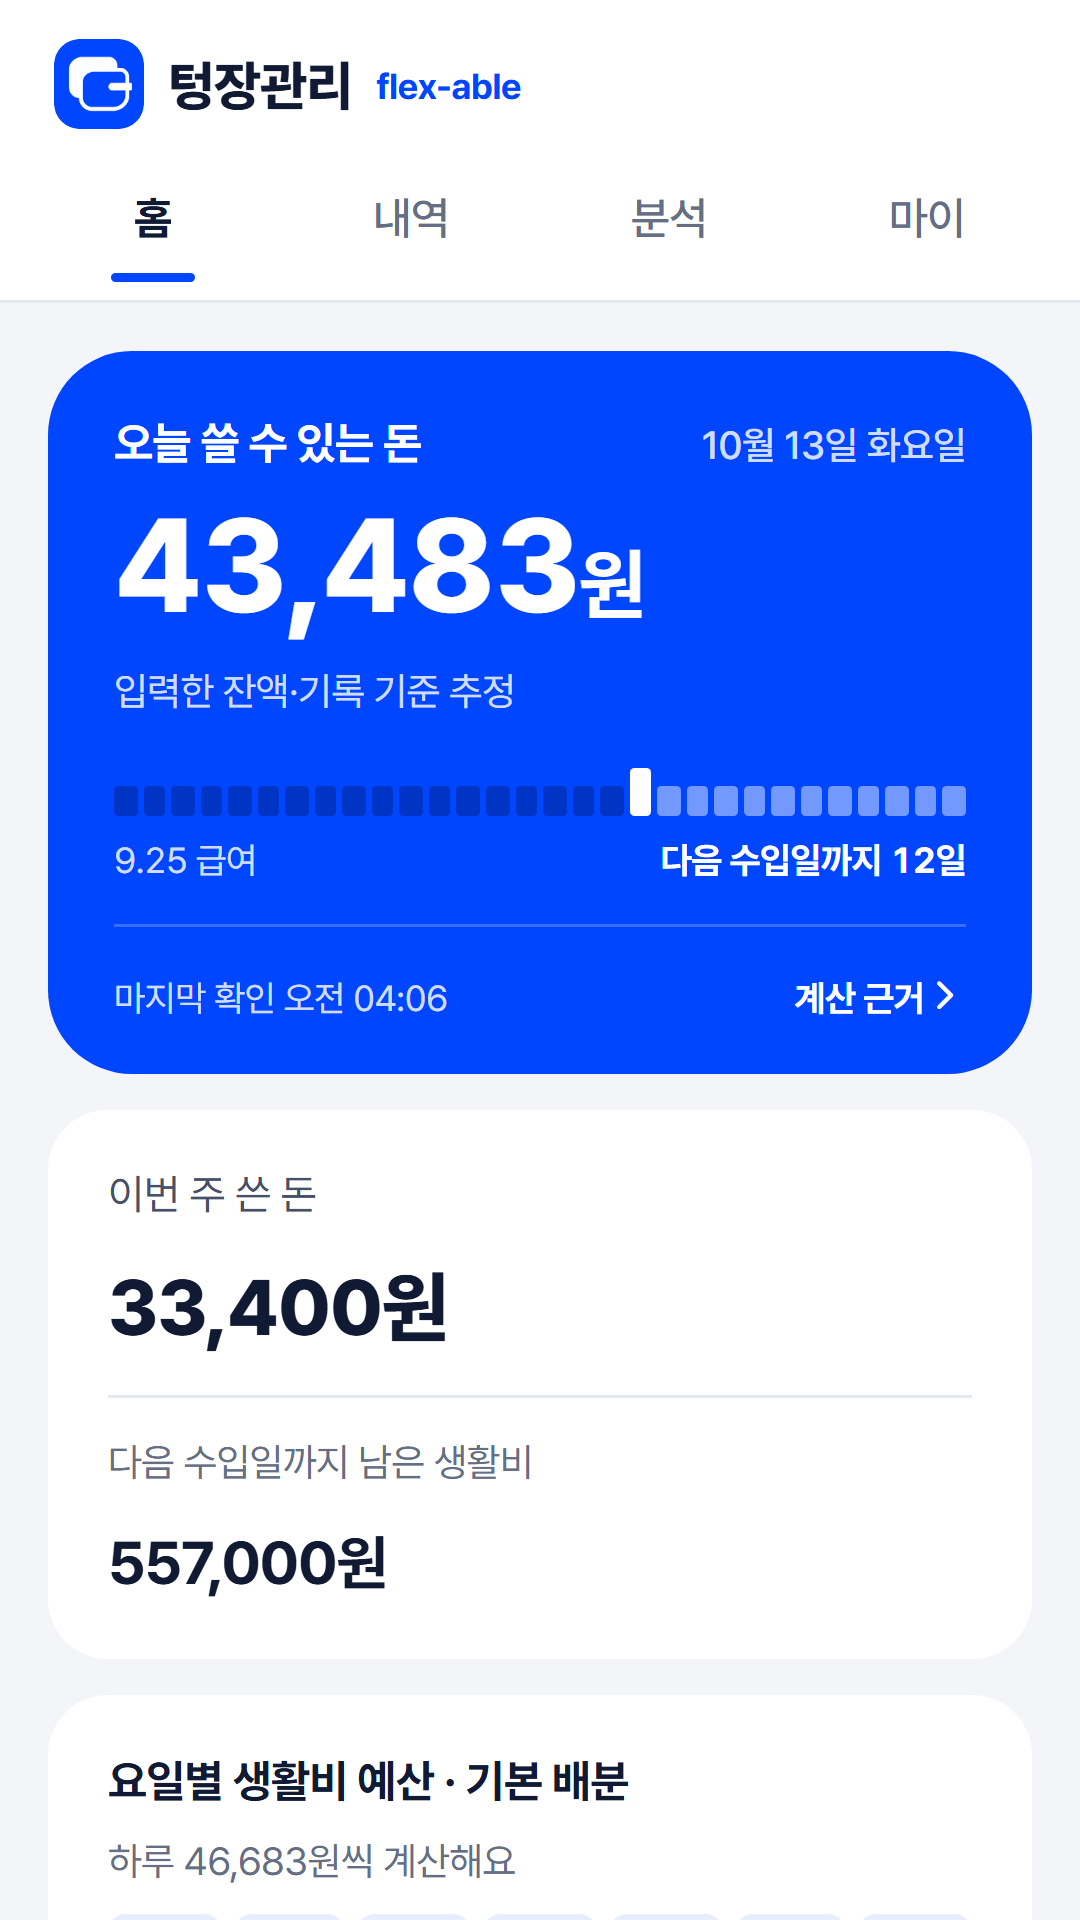
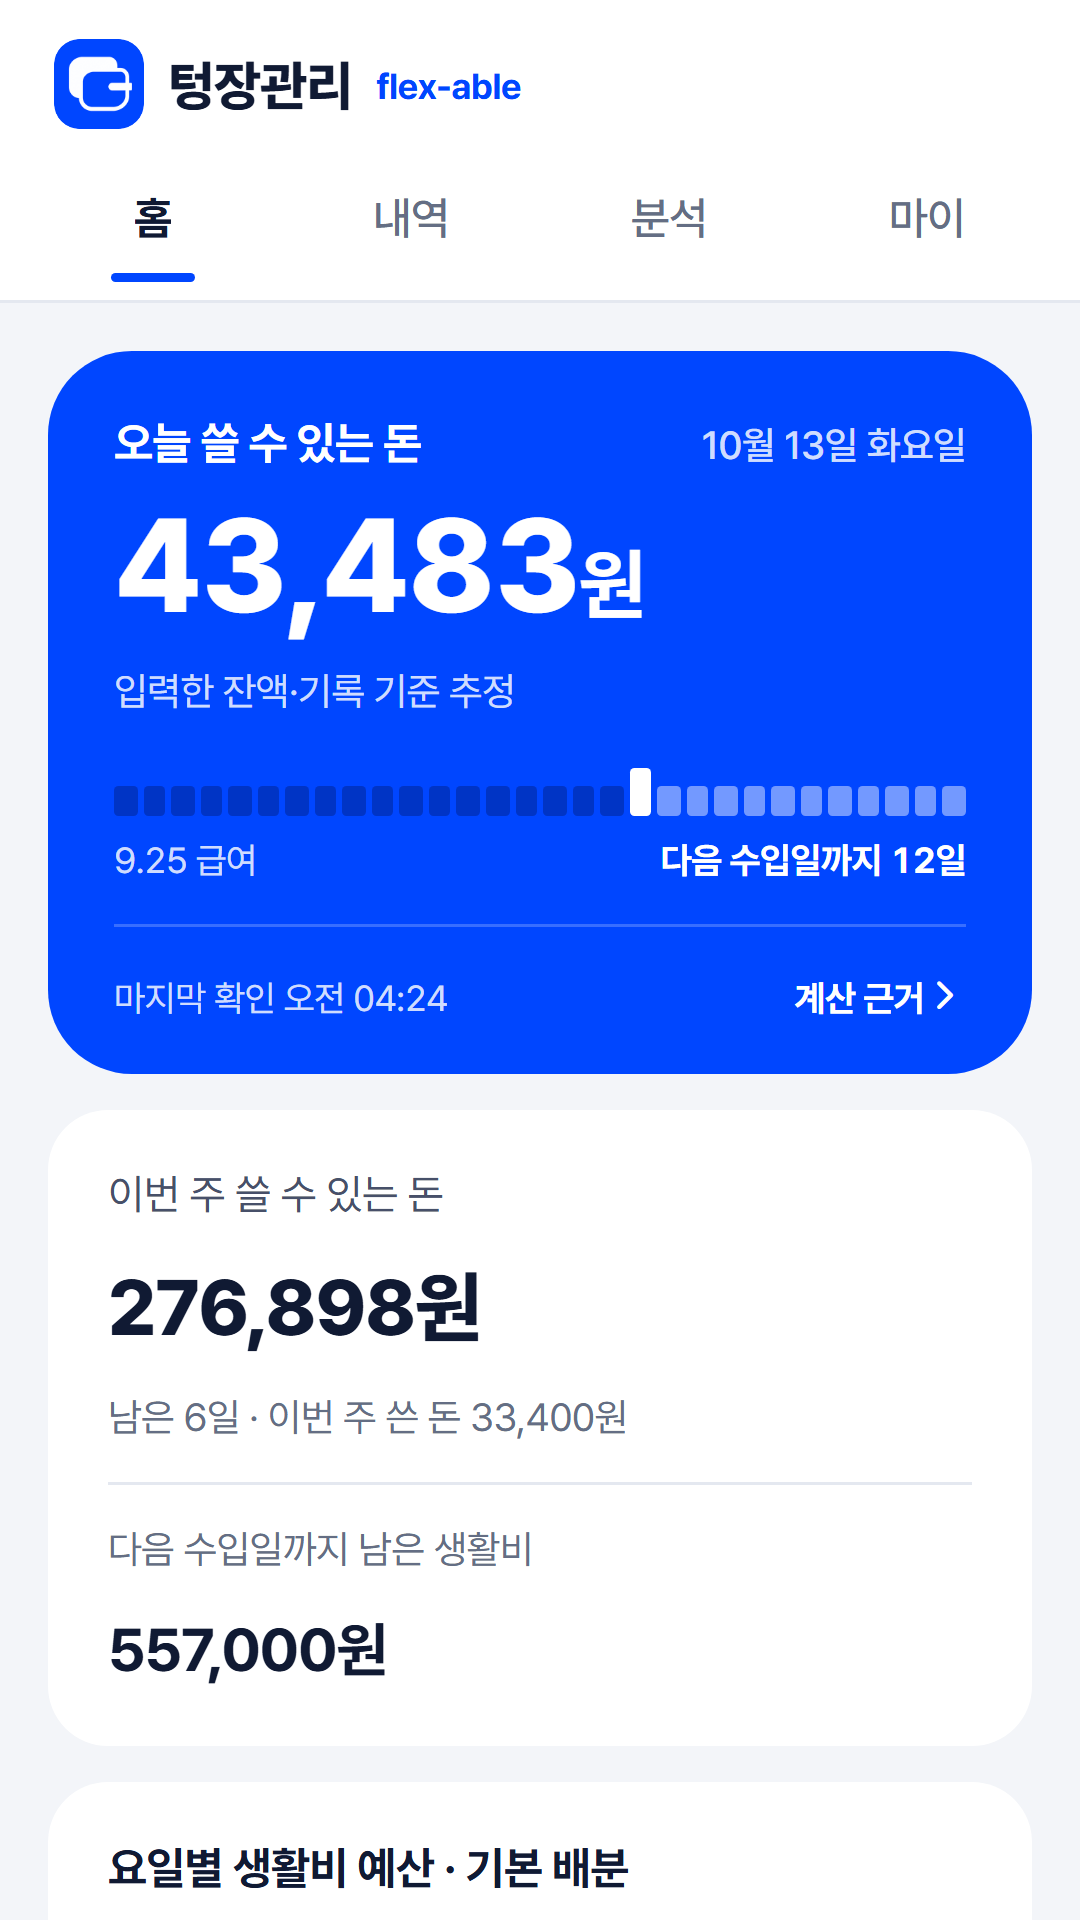
feat: 홈에 이번 주 쓸 수 있는 돈과 전체 기록 빈 상태 표시
- GET /budget/today에 weekDaysLeft, weekAvailable, hasTransactions 추가(docs/API.md 계약 갱신)
- 이번 주 남은 날은 일요일과 수입일 전날 중 빠른 날까지로 계산
- 홈: "이번 주 쓴 돈" → "이번 주 쓸 수 있는 돈"(쓴 돈은 보조 문구), 빈 상태는 전체 기록 기준
- 홈의 정산 주기 거래 목록 추가 조회 제거
- Play 홈 스크린샷 갱신

diff --git a/frontend/src/service/HomeScreen.tsx b/frontend/src/service/HomeScreen.tsx
@@ -5,14 +5,11 @@ import { Button, Card, Screen, Sheet, T } from "@/components/ui";
 import { TodayHeroView } from "@/components/TodayHeroView";
 import { colors } from "@/theme";
 import { ErrorNotice, Loading, money, useResource } from "./ui";
-import type { Today, Transaction } from "./types";
+import type { Today } from "./types";
 export function HomeScreen() {
   const result = useResource<Today>("/budget/today");
   const [basis, setBasis] = useState(false);
   const s = result.data;
-  const ledger = useResource<{ items: Transaction[] }>(
-    s ? `/transactions?from=${s.cycleStart}&to=${s.date}` : null,
-  );
   return (
     <Screen>
       {result.loading && !s && <Loading />}
@@ -48,10 +45,13 @@ export function HomeScreen() {
           )}
           <Card style={{ gap: 14 }}>
             <T size={14} color={colors.textSub}>
-              이번 주 쓴 돈
+              이번 주 쓸 수 있는 돈
             </T>
             <T size={26} weight="800">
-              {money(s.weekSpent)}원
+              {money(s.weekAvailable)}원
+            </T>
+            <T size={13} color={colors.textMuted}>
+              남은 {s.weekDaysLeft}일 · 이번 주 쓴 돈 {money(s.weekSpent)}원
             </T>
             <View style={{ height: 1, backgroundColor: colors.line }} />
             <T size={13} color={colors.textMuted}>
@@ -82,11 +82,10 @@ export function HomeScreen() {
               ))}
             </View>
           </Card>
-          <ErrorNotice error={ledger.error} retry={ledger.retry} />
-          {ledger.data?.items.length === 0 && (
+          {!s.hasTransactions && (
             <Card>
-              <T>이번 정산 주기에 기록한 거래가 없어요</T>
-              <T size={13}>수동으로 거래를 기록해보세요</T>
+              <T>아직 기록한 거래가 없어요</T>
+              <T size={13}>수동으로 첫 거래를 기록해보세요</T>
             </Card>
           )}
           <Button

diff --git a/frontend/e2e/service.spec.ts b/frontend/e2e/service.spec.ts
@@ -90,7 +90,7 @@ test("real service lifecycle, retry idempotency, edits, logout and deletion", as
   await page.getByRole("button", { name: "홈으로", exact: true }).click();
   await expect(page).toHaveURL(/\/home$/);
   await expect(
-    page.getByText("이번 정산 주기에 기록한 거래가 없어요", { exact: true }),
+    page.getByText("아직 기록한 거래가 없어요", { exact: true }),
   ).toBeVisible();
   await page.screenshot({
     path: "test-results/service-home.png",

diff --git a/frontend/src/service/types.ts b/frontend/src/service/types.ts
@@ -52,7 +52,10 @@ export type Today = {
   todayAvailable: number;
   shortage: number;
   weekSpent: number;
+  weekDaysLeft: number;
+  weekAvailable: number;
   cycleStart: string;
+  hasTransactions: boolean;
 };
 export type Analysis = {
   from: string;

diff --git a/backend/src/test/java/com/flexable/api/budget/BudgetCalculatorTest.java b/backend/src/test/java/com/flexable/api/budget/BudgetCalculatorTest.java
@@ -53,7 +53,8 @@ class BudgetCalculatorTest {
 				List.of(450_000L), 300_000,
 				List.of(new BudgetCalculator.Tx(TxType.EXPENSE, 12_000, at("2026-10-13T12:30:00")),
 						new BudgetCalculator.Tx(TxType.EXPENSE, 58_000, at("2026-10-13T09:00:00")),
-						new BudgetCalculator.Tx(TxType.INCOME, 30_000, at("2026-10-13T13:00:00"))));
+						new BudgetCalculator.Tx(TxType.INCOME, 30_000, at("2026-10-13T13:00:00"))),
+				true);
 		TodayResponse r = BudgetCalculator.compute(in, LocalDate.of(2026, 10, 13), SEOUL);
 
 		assertThat(r.daysLeft()).isEqualTo(12);
@@ -65,12 +66,29 @@ class BudgetCalculatorTest {
 		assertThat(r.todayAvailable()).isEqualTo(49_000 - 70_000 < 0 ? 0 : 49_000 - 70_000);
 		assertThat(r.shortage()).isEqualTo(70_000 - 49_000);
 		assertThat(r.cycleStart()).isEqualTo(LocalDate.of(2026, 9, 25));
+		// 10/13(화) ~ 10/18(일) 6일
+		assertThat(r.weekDaysLeft()).isEqualTo(6);
+		assertThat(r.weekAvailable()).isEqualTo(Math.max(0, r.dailyBudget() * 6 - 70_000));
+		assertThat(r.hasTransactions()).isTrue();
+	}
+
+	@Test
+	void weekStopsBeforePayday() {
+		// 10/22(목), 수입일 25일 → 이번 주는 10/24(토)까지 3일
+		var in = new BudgetCalculator.Input(300_000, at("2026-10-22T09:00:00"), 25, 0, List.of(), List.of(), 0,
+				List.of(), false);
+		TodayResponse r = BudgetCalculator.compute(in, LocalDate.of(2026, 10, 22), SEOUL);
+		assertThat(r.daysLeft()).isEqualTo(3);
+		assertThat(r.weekDaysLeft()).isEqualTo(3);
+		assertThat(r.dailyBudget()).isEqualTo(100_000);
+		assertThat(r.weekAvailable()).isEqualTo(300_000);
+		assertThat(r.hasTransactions()).isFalse();
 	}
 
 	@Test
 	void negativeRemainingReportsShortage() {
 		var in = new BudgetCalculator.Input(100_000, at("2026-10-13T10:00:00"), 25, 50_000, List.of(20),
-				List.of(200_000L), 0, List.of());
+				List.of(200_000L), 0, List.of(), false);
 		TodayResponse r = BudgetCalculator.compute(in, LocalDate.of(2026, 10, 13), SEOUL);
 		assertThat(r.remaining()).isEqualTo(-150_000);
 		assertThat(r.dailyBudget()).isZero();

diff --git a/backend/src/main/java/com/flexable/api/budget/BudgetCalculator.java b/backend/src/main/java/com/flexable/api/budget/BudgetCalculator.java
@@ -26,7 +26,7 @@ public final class BudgetCalculator {
 	}
 
 	public record Input(long balance, Instant balanceAt, int payday, long cardUnpaid, List<Integer> fixedDays,
-			List<Long> fixedAmounts, long protectedTotal, List<Tx> transactions) {
+			List<Long> fixedAmounts, long protectedTotal, List<Tx> transactions, boolean hasTransactions) {
 	}
 
 	public static TodayResponse compute(Input in, LocalDate today, ZoneId zone) {
@@ -63,10 +63,13 @@ public final class BudgetCalculator {
 		long dailyBudget = Math.max(0, remaining + todaySpent) / daysLeft;
 		long todayAvailable = Math.max(0, dailyBudget - todaySpent);
 		long shortage = remaining < 0 ? -remaining : Math.max(0, todaySpent - dailyBudget);
+		LocalDate weekLast = weekEnd.isBefore(nextPayday) ? weekEnd : nextPayday.minusDays(1);
+		int weekDaysLeft = (int) Math.max(1, ChronoUnit.DAYS.between(today, weekLast) + 1);
+		long weekAvailable = Math.max(0, dailyBudget * weekDaysLeft - todaySpent);
 
 		return new TodayResponse(today, nextPayday, daysLeft, estimated, reservedFixed, in.cardUnpaid(),
 				in.protectedTotal(), remaining, todaySpent, dailyBudget, todayAvailable, shortage, weekSpent,
-				cycleStart);
+				weekDaysLeft, weekAvailable, cycleStart, in.hasTransactions());
 	}
 
 	/** 그 달의 수입일(31 등 없는 날은 말일로). */

diff --git a/backend/src/test/java/com/flexable/api/ApiFlowTest.java b/backend/src/test/java/com/flexable/api/ApiFlowTest.java
@@ -129,6 +129,8 @@ class ApiFlowTest {
 			.andExpect(status().isOk())
 			.andExpect(jsonPath("$.cardUnpaid", is(0)))
 			.andExpect(jsonPath("$.fixedExpenses[0].id").isNumber());
+		mvc.perform(json(get("/api/v1/budget/today"), token, null))
+			.andExpect(jsonPath("$.hasTransactions", is(false)));
 		mvc.perform(json(get("/api/v1/me"), token, null)).andExpect(jsonPath("$.onboarded", is(true)));
 
 		long food = categoryId(token, "EXPENSE", "식비");
@@ -154,7 +156,10 @@ class ApiFlowTest {
 		mvc.perform(json(get("/api/v1/budget/today"), token, null))
 			.andExpect(status().isOk())
 			.andExpect(jsonPath("$.todaySpent", is(8500)))
-			.andExpect(jsonPath("$.estimatedBalance", is(1000000 - 8500)));
+			.andExpect(jsonPath("$.estimatedBalance", is(1000000 - 8500)))
+			.andExpect(jsonPath("$.hasTransactions", is(true)))
+			.andExpect(jsonPath("$.weekDaysLeft").isNumber())
+			.andExpect(jsonPath("$.weekAvailable").isNumber());
 		mvc.perform(json(get("/api/v1/analysis/summary?from=" + today + "&to=" + today), token, null))
 			.andExpect(jsonPath("$.expenseTotal", is(8500)))
 			.andExpect(jsonPath("$.byCategory[0].ratio", is(1.0)))

diff --git a/backend/src/main/java/com/flexable/api/budget/BudgetService.java b/backend/src/main/java/com/flexable/api/budget/BudgetService.java
@@ -101,7 +101,8 @@ public class BudgetService {
 
 		BudgetCalculator.Input input = new BudgetCalculator.Input(s.getBalance(), s.getBalanceAt(), s.getPayday(),
 				s.getCardUnpaid(), fixedList.stream().map(FixedExpense::getDay).toList(),
-				fixedList.stream().map(FixedExpense::getAmount).toList(), protectedTotal, txs);
+				fixedList.stream().map(FixedExpense::getAmount).toList(), protectedTotal, txs,
+				!txs.isEmpty() || transactions.existsByUserId(userId));
 		return BudgetCalculator.compute(input, today, zone);
 	}
 

diff --git a/backend/src/main/java/com/flexable/api/budget/BudgetDtos.java b/backend/src/main/java/com/flexable/api/budget/BudgetDtos.java
@@ -48,6 +48,7 @@ public final class BudgetDtos {
 
 	public record TodayResponse(LocalDate date, LocalDate nextPayday, int daysLeft, long estimatedBalance,
 			long reservedFixed, long cardUnpaid, long protectedTotal, long remaining, long todaySpent,
-			long dailyBudget, long todayAvailable, long shortage, long weekSpent, LocalDate cycleStart) {
+			long dailyBudget, long todayAvailable, long shortage, long weekSpent, int weekDaysLeft, long weekAvailable,
+			LocalDate cycleStart, boolean hasTransactions) {
 	}
 }

diff --git a/backend/src/main/java/com/flexable/api/transaction/TransactionRepository.java b/backend/src/main/java/com/flexable/api/transaction/TransactionRepository.java
@@ -14,6 +14,8 @@ public interface TransactionRepository extends JpaRepository<Transaction, Long> 
 
 	Optional<Transaction> findByUserIdAndIdempotencyKey(Long userId, String idempotencyKey);
 
+	boolean existsByUserId(Long userId);
+
 	/** [from, to) 구간, 최신순 */
 	@Query("select t from Transaction t where t.userId = :userId and t.occurredAt >= :from and t.occurredAt < :to"
 			+ " order by t.occurredAt desc, t.id desc")

diff --git a/docs/HANDOFF.md b/docs/HANDOFF.md
@@ -91,7 +91,7 @@ cd /opt/flexable && docker compose ps && docker compose logs api --tail 100
 - [ ] 도메인 구매 → 서버 `.env`의 `API_DOMAIN`, `frontend/.env.production`, `eas.json`의 `EXPO_PUBLIC_API_URL` 변경 → 앱 재빌드
 - [ ] EC2 탄력적 IP 할당(지금은 자동 할당 IP라 인스턴스를 멈추면 바뀜 → DuckDNS 갱신 필요)
 - [ ] 문의 이메일을 팀 계정으로 교체: `frontend/src/service/config.ts`, `docs/play-store/*.md`, Play Console
-- [ ] API 요청(Codex): `GET /budget/today`에 주간 사용 가능액, 전체 거래 유무. 지금은 "이번 주 쓴 돈", "이번 정산 주기에 기록한 거래가 없어요"로 표시
+- [x] API 요청(Codex): `GET /budget/today`에 `weekDaysLeft`·`weekAvailable`·`hasTransactions` 추가, 홈에 "이번 주 쓸 수 있는 돈"과 "아직 기록한 거래가 없어요" 반영(2026-10-13 운영 배포)
 - [ ] 같은 `Idempotency-Key`로 동시에 들어온 요청은 하나가 500을 받는다(재전송하면 정상). 드문 경우라 보류
 - [ ] RDS 자동 백업 보관 기간이 7일 이하인지 확인(개인정보처리방침에 "최대 7일"이라고 적음)
 - [ ] 개발 도구 정리: Codex 작업 브랜치 `SXXNHU/feat-service-frontend`는 rebase 전 원본이다. 원격과 PR은 `SXXNHU/service-frontend`를 쓴다.

diff --git a/docs/API.md b/docs/API.md
@@ -126,7 +126,10 @@
   "todayAvailable": 24833,
   "shortage": 0,
   "weekSpent": 54000,
-  "cycleStart": "2026-09-25"
+  "weekDaysLeft": 6,
+  "weekAvailable": 208998,
+  "cycleStart": "2026-09-25",
+  "hasTransactions": true
 }
 ```
 
@@ -139,6 +142,9 @@
 - `dailyBudget` = max(0, `remaining` + `todaySpent`) ÷ `daysLeft`
 - `todayAvailable` = max(0, `dailyBudget` − `todaySpent`), `shortage` = `remaining` < 0이면 −`remaining`, 아니면 max(0, `todaySpent` − `dailyBudget`)
 - `weekSpent` = 이번 주(월~일) 지출 합, `cycleStart` = 직전 수입일
+- `weekDaysLeft` = 오늘부터 이번 주 일요일과 수입일 전날 중 빠른 날까지 날짜 수(오늘 포함, 최소 1)
+- `weekAvailable` = max(0, `dailyBudget` × `weekDaysLeft` − `todaySpent`) — 오늘 포함 이번 주 남은 날에 쓸 수 있는 돈
+- `hasTransactions` = 지금까지 거래를 한 건이라도 기록했는지(기간 무관). 홈 빈 상태 판단용
 
 화면 문구는 "입력한 잔액·기록 기준 추정"으로 설명한다(실제 은행 잔액과 다를 수 있음).
 
